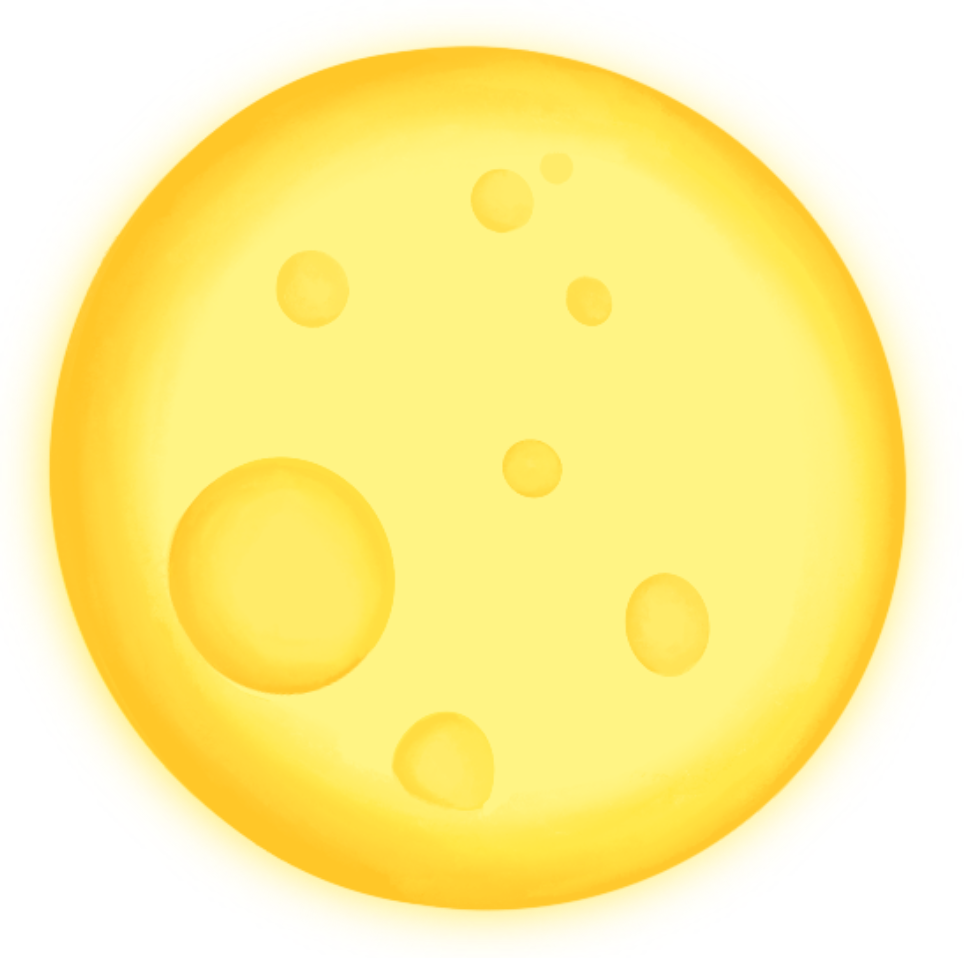
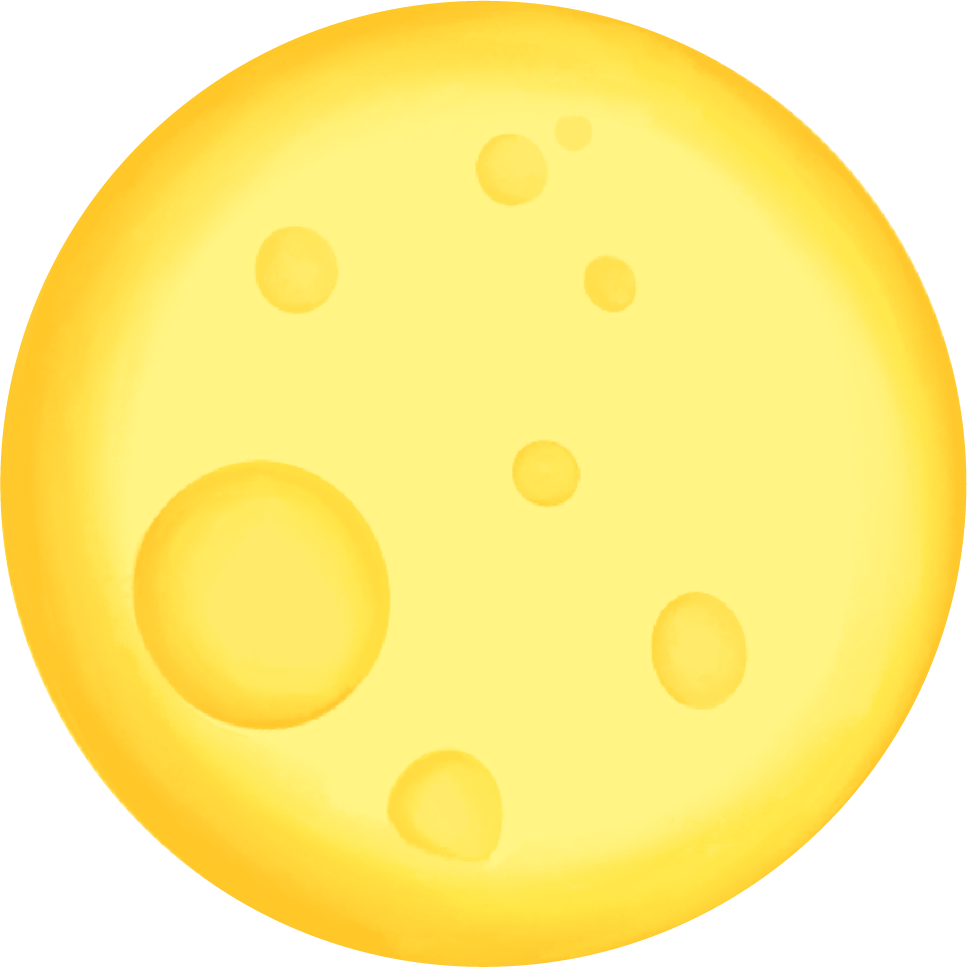
fix: moon

diff --git a/newyearletter/src/main/frontend/src/components/Moon.js b/newyearletter/src/main/frontend/src/components/Moon.js
@@ -1,8 +1,7 @@
 import React from 'react';
 
 import $ from 'jquery';
-// import moon_image from '../assets/images/moon.png';
-import moon_image from '../assets/images/moon-noblur.png';
+import moon_image from '../assets/images/moon.png';
 
 function Moon({money = 150000, debug = false}) {
     const setMoonRotation = money => {
